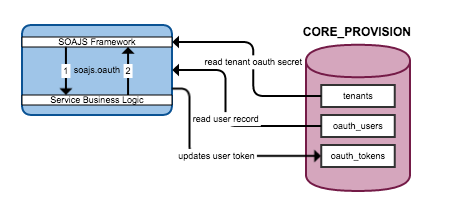
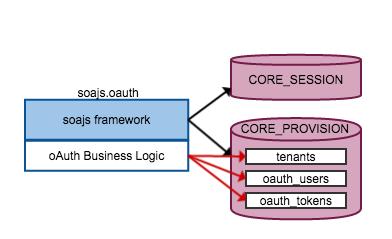
updated images and content of deployment overview.

diff --git a/sections/documentation/deployment/overview.html b/sections/documentation/deployment/overview.html
@@ -127,8 +127,6 @@
 		</tbody>
 	</table>
 	<br/><br/><br/>
-	<hr/>
-	<h3>Service Scenario</h3>
 	<p>
 		When a request arrives to your service, it goes through the framework first then your business logic then it goes back to the framework before returning. The first entry to the framework, adds SOAJS alters the data as configured by the constructor parameters and adds the tools that SOAJS offers, SOAJS also talk to the data layer to check the key provided and the permissions and load the <a href="#/documentation/core/provisioning">provisioned</a> data based on the current running environment as configured in the <a href="#/documentation/core/registry">registry</a>. The second time the framework is used which is before returning the response, soajs formulates a unified and valid REST response before returning this response.<br />
 		<img ng-src="images/documentation/service_scenario.png"><br />
@@ -144,38 +142,101 @@
 	<p>
 		The controller is the gateway to soajs services. It receives the request, runs some validation steps and forwards the request to your service. The controller does not require any data layer.
 	</p>
-	<br/><br/>
-	<h4>oAuth Service</h4>
-	<p>
-		<img ng-src="images/documentation/oauth_service.png" class="image-right"/><br />
-		The oauth services, reads the tenant oauth secret and the user information from tenants and oauth_users collections in core_provision database and if the verification is valid, it inserts/update the user token in oauth_tokens collection.
-	</p>
-	<br/><br/>
-	<h4>Urac Service</h4>
-	<p>
-		<img ng-src="images/documentation/urac_service.png" class="image-right"/><br />
-		The urac services, reads the tenant information to determine if the provided key exists and has can access the service. Now that it knows the name of the tenant that the given key belongs to, all consequent requests are inserted/updated in a new database named after the tenant: TENANTNAME_URAC.
-	</p>
-	<br/><br/>
-	<h4>Dashboard Service</h4>
-	<p>
-		<img ng-src="images/documentation/dashboard_service.png" class="image-right"/><br />
-		The dashboard services, manages the information inside CORE_PROVISION collections. This service is responsilbe for creating environment, products, tenants and oauth users records.
-	</p>
-	<br/><br/>
+	<br/>
+	<table width="100%">
+		<tr>
+			<td valign="middle">
+				<h4>oAuth Service</h4>
+				<p>
+					The oauth services, reads the tenant oauth secret and the user information from tenants and oauth_users collections in core_provision database and if the verification is valid, it inserts/update the user token in oauth_tokens collection.
+				</p>
+			</td>
+			<td valign="middle"><img ng-src="images/documentation/oauth_service.png"/></td>
+		</tr>
+	</table>
+	<br/>
+	<table width="100%">
+		<tr>
+			<td valign="middle">
+				<h4>Urac Service</h4>
+				<p>
+					The urac service, manages users and groups records. SOAJS framework provides the services with the tenant name based on the key provided in the request. The business logic of the service uses the tenant name to determine which database the records should be inserted/updated.
+				</p>
+			</td>
+			<td valign="middle"><img ng-src="images/documentation/urac_service.png"/></td>
+		</tr>
+	</table>
+	<br/>
+	<table width="100%">
+		<tr>
+			<td valign="middle">
+				<h4>Dashboard Service</h4>
+				<p>
+					The dashboard services, manages the information inside CORE_PROVISION collections. The business logic of this service is responsible for creating environment, products, tenants and oauth users records.
+				</p>
+			</td>
+			<td valign="middle"><img ng-src="images/documentation/dashboard_service.png"/></td>
+		</tr>
+	</table>
+	<br/>
 	<h4>Examples Service</h4>
 	<p>
-		The examples services contains 3 services: Example02, 03, 04 that communicate with the data layer. This package is a guideline to how your services might be constructed. Example 01 does not communicate with the database, it simply manipulates the arriving input and sends it back in the response. Example 02 and 04 are protected by oAuth security and Example 02, 03, 04 provide tenant keys in the request. The following diagram illustrates how these examples work.<br />
-		<img ng-src="images/documentation/examples_service.png" /><br /><br />
-		The diagram above shows 4 different combinations of how a service can be constructed to work with soajs packages and the data layer.
+		The examples services contains 4 examples starting with a basic service example all the way to a multitenant oAuth protected example.
 	</p>
-	<ul>
-		<li><span style="color:red;">Controller</span> communicates with both CORE_PROVISION & CORE_SESSION</li>
-		<li><span style="color:orange;">oAuth</span> communicates with CORE_PROVISION</li>
-		<li><span style="color:mediumpurple;">URAC</span> communicates with CORE_PROVISION & TENANTNAME_URAC</li>
-		<li><span style="color:dodgerblue;">Example 03 & 04</span> have their own custom database (just like your service will be)</li>
-	</ul>
-	<p>
-		This architecture can be set up on either a single machine ( All in One ) or on a cloud and will behave and run the same way regardless of the hardware used, the only difference is that cloud architecture requires more servers and more configuration to set it up than simply installing it all on the one machine.
-	</p>
+	<table width="100%">
+		<tr>
+			<td valign="middle">
+				<b>Example 01</b>
+				<p>
+					This example is very basic, its business logic reads the input parameters, formulates a json object out of them and returns the object in the response. The service is not configured to communicate with any data layer.
+				</p>
+			</td>
+			<td valign="middle"><img ng-src="images/documentation/example01_service.png" /></td>
+		</tr>
+	</table>
+	<table width="100%">
+		<tr>
+			<td valign="middle"><img ng-src="images/documentation/example02_service.png" /></td>
+			<td valign="middle">
+				<b>Example 02</b>
+				<p>
+					This example is exactly like Example 01, its business logic reads the input parameters, formulates a json object out of them and returns the object in the response. The service is configured to use oauth but its business logic does not communicate with the data layer.
+				</p>
+			</td>
+		</tr>
+	</table>
+	<table width="100%">
+		<tr>
+			<td valign="middle">
+				<b>Example 03</b>
+				<p>
+					This example is a multitenant service, and can only be used by tenants. If you attempt to directly hit the api of Example 03 without providing a tenant key, the request will be rejected. You will need to provide a tenant key that has access to this service in your request so it gets evaluated.<br />The service formulates a json response out of the inputs it receives and its business logic does not communicate with any data layer.
+				</p>
+			</td>
+			<td valign="middle"><img ng-src="images/documentation/example03_service.png" /></td>
+		</tr>
+	</table>
+	<table width="100%">
+		<tr>
+			<td valign="middle"><img ng-src="images/documentation/example04_service.png" /></td>
+			<td valign="middle">
+				<b>Example 04</b>
+				<p>
+					This example is a multitenant service that is also protected by oauth. If you attempt to directly hit the api of Example 04 without providing a tenant key or an oauth access_token, the request will be rejected. You will need to request a token from the oauth service first, then provide it along with the tenant key in the consecutive requests to any of Example 04 APIs.<br />
+					The business logic of this service, formulates a response out of the inputs it receives and therefore does not communicate with any data layer.
+				</p>
+			</td>
+		</tr>
+	</table>
+	<br/>
+	<table width="100%">
+		<tr>
+			<td valign="middle">
+				<p>
+					SOAJS gives you the ability to create your services the way you want. Your service business logic can work with the data layer or not. If your service requires to store or fetch data from the data layer here is a diagram of how it might look like:
+				</p>
+			</td>
+			<td valign="middle"><img ng-src="images/documentation/your_service.png" /></td>
+		</tr>
+	</table>
 </div>
